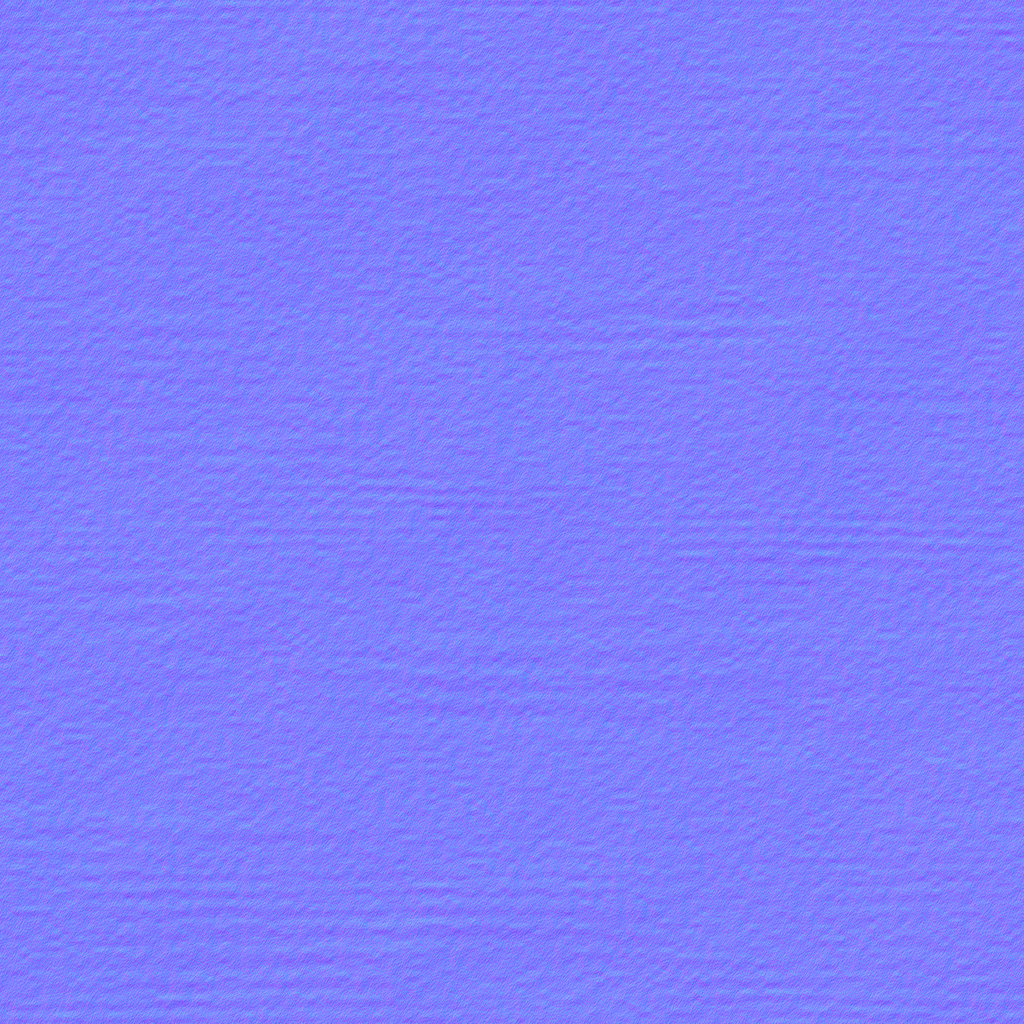
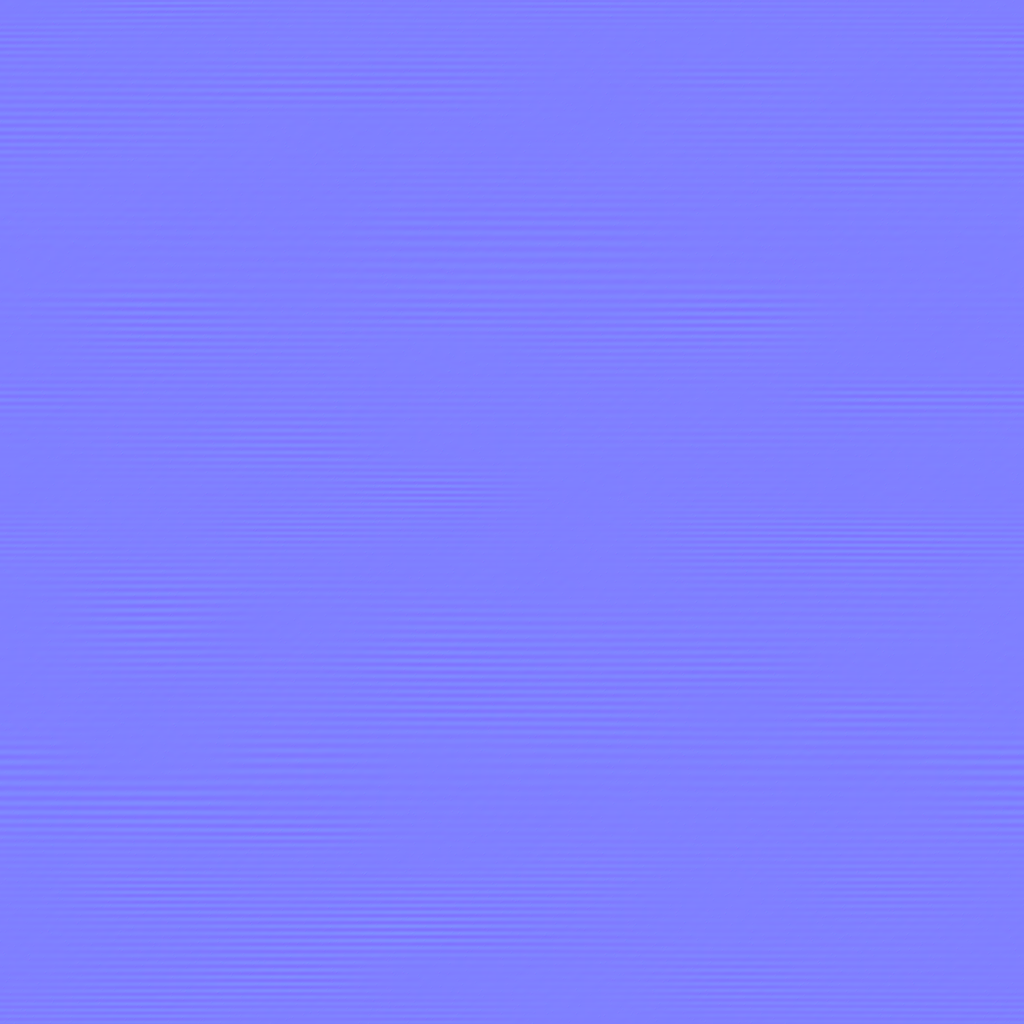
Refine raw clay lines grain and rim mapping from video references

diff --git a/atelier.js b/atelier.js
@@ -126,7 +126,9 @@ function makeClayMaps() {
 function makeRawClayMaps(){
  const loader=new THREE.TextureLoader();
  const make=(kind)=>{const map=loader.load(`./assets/raw-clay/${kind}.png`);map.flipY=false;map.wrapS=THREE.RepeatWrapping;map.wrapT=THREE.ClampToEdgeWrapping;map.anisotropy=Math.min(4,renderer.capabilities.getMaxAnisotropy());if(kind==='color')map.colorSpace=THREE.SRGBColorSpace;return map;};
- return {normal:make('normal'),roughness:make('roughness'),color:make('color')};
+ const maps={normal:make('normal'),roughness:make('roughness'),color:make('color')};
+ for(const map of Object.values(maps))map.channel=1;
+ return maps;
 }
 function computeClaySurfaceDetail(ringIndex, segmentIndex) {
   const t=ringIndex/(ringCount-1); const a=segmentIndex/segments*Math.PI*2;
@@ -230,6 +232,8 @@ function rebuildMesh() {
     geometry.setAttribute('uv',new THREE.Float32BufferAttribute(uvs,2));
     geometry.setIndex(indices);geometry.deleteAttribute('normal');
   }
+  const rawUVs=uvs.map((value,index)=>index%2?value*.85:value);
+  geometry.setAttribute('uv1',new THREE.Float32BufferAttribute(rawUVs,2));
   geometry.computeVertexNormals();
   joinWrapNormals(geometry,renderRows);
   if(!hasOpening){
@@ -267,7 +271,12 @@ function buildInteriorMesh(){
   for(let segment=0;segment<segments;segment++)indices.push(previous+segment,innerTop+segment,previous+segment+1,innerTop+segment,innerTop+segment+1,previous+segment+1);
   const floorCenter=vertices.length/3,floor=inner[0];vertices.push(0,floor.y,0);colors.push(.94*.76,.91*.76,.85*.76);uvs.push(.5,0);
   for(let segment=0;segment<segments;segment++)indices.push(floorCenter,innerStart+segment+1,innerStart+segment);
-  const innerGeometry=new THREE.BufferGeometry();innerGeometry.setAttribute('position',new THREE.Float32BufferAttribute(vertices,3));innerGeometry.setAttribute('color',new THREE.Float32BufferAttribute(colors,3));innerGeometry.setAttribute('uv',new THREE.Float32BufferAttribute(uvs,2));innerGeometry.setIndex(indices);innerGeometry.userData.dryColors=new Float32Array(colors);innerGeometry.computeVertexNormals();joinWrapNormals(innerGeometry,inner.length+5);
+  const innerGeometry=new THREE.BufferGeometry();innerGeometry.setAttribute('position',new THREE.Float32BufferAttribute(vertices,3));innerGeometry.setAttribute('color',new THREE.Float32BufferAttribute(colors,3));innerGeometry.setAttribute('uv',new THREE.Float32BufferAttribute(uvs,2));const rawUVs=uvs.slice();
+  for(let s=0;s<=segments;s++)rawUVs[s*2+1]=.85;
+  const rimStart=(inner.length+1)*stride;
+  for(let row=1;row<5;row++)for(let s=0;s<=segments;s++)rawUVs[(rimStart+(row-1)*stride+s)*2+1]=.85+.15*(1-Math.cos(row/5*Math.PI))*.5;
+  innerGeometry.setAttribute('uv1',new THREE.Float32BufferAttribute(rawUVs,2));
+  innerGeometry.setIndex(indices);innerGeometry.userData.dryColors=new Float32Array(colors);innerGeometry.computeVertexNormals();joinWrapNormals(innerGeometry,inner.length+5);
   // The outer wall and rim are separate meshes, but share continuous lighting.
   const outerNormals=geometry.getAttribute('normal'),rimNormals=innerGeometry.getAttribute('normal');
   const outerStart=(state.profile.length-1)*2*stride;

diff --git a/docs/raw-clay-reference-review/review.html b/docs/raw-clay-reference-review/review.html
@@ -1,0 +1,1 @@
+<!doctype html><meta charset="utf-8"><meta name="viewport" content="width=device-width"><title>Raw clay — real-clay reference comparison</title><style>body{background:#28221d;color:#eee1cd;font:17px system-ui;margin:32px;line-height:1.5}p,li{max-width:950px}.pair{display:grid;grid-template-columns:1fr 1fr;gap:16px}figure{margin:0}img{width:100%}.refs{display:flex;gap:16px}.refs img{width:30%;max-width:320px}h2{margin-top:40px}</style><h1>Raw clay — three focused corrections</h1><ol><li>Broad, blurred marks → finer, closer circular throwing lines, with variable strength.</li><li>Heavy all-over sandy grain → smoother clay with sparse fine pores and quieter mottling.</li><li>Radially stretched rim texture → separate raw-surface coordinates so circular detail continues across the top. Glaze painting coordinates are unchanged.</li></ol><p>References are visual guides only. The app maps are original deterministic procedural maps. Clay body colors, lighting, geometry, tools, Undo and firing behavior were preserved. The videos show different moisture and working stages; their gray color and exact lighting were not treated as universal clay properties.</p><h2>Supplied reference frames</h2><p>19-04-38 recording at ~22.1s; 19-02-39 at ~17.2s and ~22.1s. These are review evidence, never runtime textures.</p><div class="refs"><img src="reference-trimmed-clay.jpg"><img src="reference-fine-lines.jpg"><img src="reference-smoothed-clay.jpg"></div><h2>desktop-close</h2><div class="pair"><figure><img src="before-desktop-close.png"><figcaption>Before · a9d628d</figcaption></figure><figure><img src="after-desktop-close.png"><figcaption>After · raw surface refinement</figcaption></figure></div><h2>phone-close</h2><div class="pair"><figure><img src="before-phone-close.png"><figcaption>Before · a9d628d</figcaption></figure><figure><img src="after-phone-close.png"><figcaption>After · raw surface refinement</figcaption></figure></div><h2>desktop</h2><div class="pair"><figure><img src="before-desktop.png"><figcaption>Before · a9d628d</figcaption></figure><figure><img src="after-desktop.png"><figcaption>After · raw surface refinement</figcaption></figure></div><h2>phone</h2><div class="pair"><figure><img src="before-phone.png"><figcaption>Before · a9d628d</figcaption></figure><figure><img src="after-phone.png"><figcaption>After · raw surface refinement</figcaption></figure></div><p>Phone proxy:390×844/DPR2, renderer cap1.65,4× CPU throttle. Median16.7ms and p95~16.8ms before/after; no sampled frames over33.4ms. No physical phone validation. Geometry and scene composition match across each comparison.</p>

diff --git a/docs/raw-clay-reference-review/map-generator.js b/docs/raw-clay-reference-review/map-generator.js
@@ -1,0 +1,29 @@
+// One seamless circumference, no repeated tiles. Generated once and shared by clay colors.
+function makeRawClayMaps(){
+ const size=1024,height=new Float32Array(size*size),cloud=new Float32Array(size*size);
+ const hash=(x,y)=>{let n=Math.imul(x,374761393)^Math.imul(y,668265263)^1979;n=Math.imul(n^(n>>>13),1274126177);return ((n^(n>>>16))>>>0)/4294967295;};
+ const noise=(u,v,nx,ny)=>{const x=u*nx,y=v*ny,ix=Math.floor(x),iy=Math.floor(y),fx=x-ix,fy=y-iy,sx=fx*fx*(3-2*fx),sy=fy*fy*(3-2*fy);const a=hash((ix%nx+nx)%nx,iy),b=hash(((ix+1)%nx+nx)%nx,iy),c=hash((ix%nx+nx)%nx,iy+1),d=hash(((ix+1)%nx+nx)%nx,iy+1);return (a+(b-a)*sx)*(1-sy)+(c+(d-c)*sx)*sy;};
+ for(let y=0;y<size;y++)for(let x=0;x<size;x++){
+  const u=x/size,v=y/(size-1),i=y*size+x;
+  const broad=noise(u,v,5,7)*.65+noise(u,v,13,17)*.35;
+  const warp=noise(u,v,4,11),fade=.15+.85*noise(u,v,7,23);
+  const phase=v*850+Math.sin(v*13)*12+Math.sin(v*37)*3+(warp-.5)*1.2;
+  const rings=Math.sin(phase)*fade*fade*(.15+.85*noise(u,v,3,31));
+  height[i]=rings*.12+(broad-.5)*.5+(noise(u,v,128,173)-.5)*.035+Math.max(0,hash(x,y)-.985)*-3;
+  cloud[i]=broad;
+ }
+ const make=(kind)=>{const data=new Uint8Array(size*size*4);
+  for(let y=0;y<size;y++)for(let x=0;x<size;x++){
+   const i=y*size+x,j=i*4;
+   if(kind==='normal'){
+    const dx=(height[y*size+(x+1)%size]-height[y*size+(x+size-1)%size])*.9;
+    const dy=(height[Math.min(size-1,y+1)*size+x]-height[Math.max(0,y-1)*size+x])*.9;
+    const length=Math.hypot(dx,dy,1);data[j]=Math.round(127.5-dx/length*127.5);data[j+1]=Math.round(127.5-dy/length*127.5);data[j+2]=Math.round(127.5+127.5/length);
+   }else{const value=kind==='roughness'?232+cloud[i]*22+(hash(x,y)-.5)*6:246+(cloud[i]-.5)*8-Math.max(0,hash(x,y)-.985)*180;data[j]=data[j+1]=data[j+2]=Math.round(value);}
+   data[j+3]=255;
+  }
+  const map=new THREE.DataTexture(data,size,size);map.wrapS=THREE.RepeatWrapping;map.wrapT=THREE.ClampToEdgeWrapping;map.magFilter=THREE.LinearFilter;map.minFilter=THREE.LinearMipmapLinearFilter;map.generateMipmaps=true;map.anisotropy=Math.min(4,renderer.capabilities.getMaxAnisotropy());if(kind==='color')map.colorSpace=THREE.SRGBColorSpace;map.needsUpdate=true;return map;
+ };
+ return {normal:make('normal'),roughness:make('roughness'),color:make('color')};
+}
+

diff --git a/DECISIONS.md b/DECISIONS.md
@@ -42,3 +42,13 @@
 - Phone4× CPU proxy fired median33.3ms/p9533.4ms before and after; desktop same. No added frame-time cost measured. These are headless Chrome proxy measurements, not real-device verification.
 - Before/after raw, glazed, fired and2× close-up evidence: docs/walls-checkpoint-4/review.html. Regenerate with EVIDENCE_DIR=docs/walls-checkpoint-4 BASELINE=4bb5cd0 and docs/glaze-checkpoint-3/capture.cjs.
 - Checkpoints3–4 complete locally; no deployment/push. Await visual review.
+
+## 2026-10-15 — Raw-clay video-reference refinement
+
+- Compared supplied19-04-38 and19-02-39 recordings (31.55s/24.535s) at multiple timestamps. Used actual decoded frames of throwing, trimming and smoothing, not the finished glazed-pot introduction.
+- Three differences addressed only: (1) broad blurred marks versus fine close circular lines; (2) heavy all-over granular relief versus smooth clay with sparse pores; (3) stretched radial rim marks versus circular detail.
+- Original procedural generator increases line frequency and reduces coarse noise/mottle relief, uses sparse pits rather than uniform white noise. Same1024-square maps, material hues and matte response. No reference image pixels used in runtime textures.
+- Added separate uv1 raw texture coordinates: reserve85% for outer wall and15% for the rim, preserve original uv painting coordinates. Positions/indices, tool logic, process/history and lighting unchanged. Existing raw-map channel changes back with the legacy non-raw maps at firing.
+- Assets now substantially smaller (normal~716KB, color~153KB); unchanged map dimensions/GPU texture count. Additional UV buffer is small and only updated during existing mesh rebuilds.
+- Desktop and390px4× CPU phone proxy: median16.7ms, p95~16.8ms before/after, zero sampled intervals>33.4ms, no browser errors. Physical phone GPU/thermal behavior unverified. Eight Node regression suites passed.
+- Evidence/generator/bake helper: docs/raw-clay-reference-review/. Reference frame copies are documentation only, never loaded by the app. Baseline a9d628d. Stop for review; no deployment.
